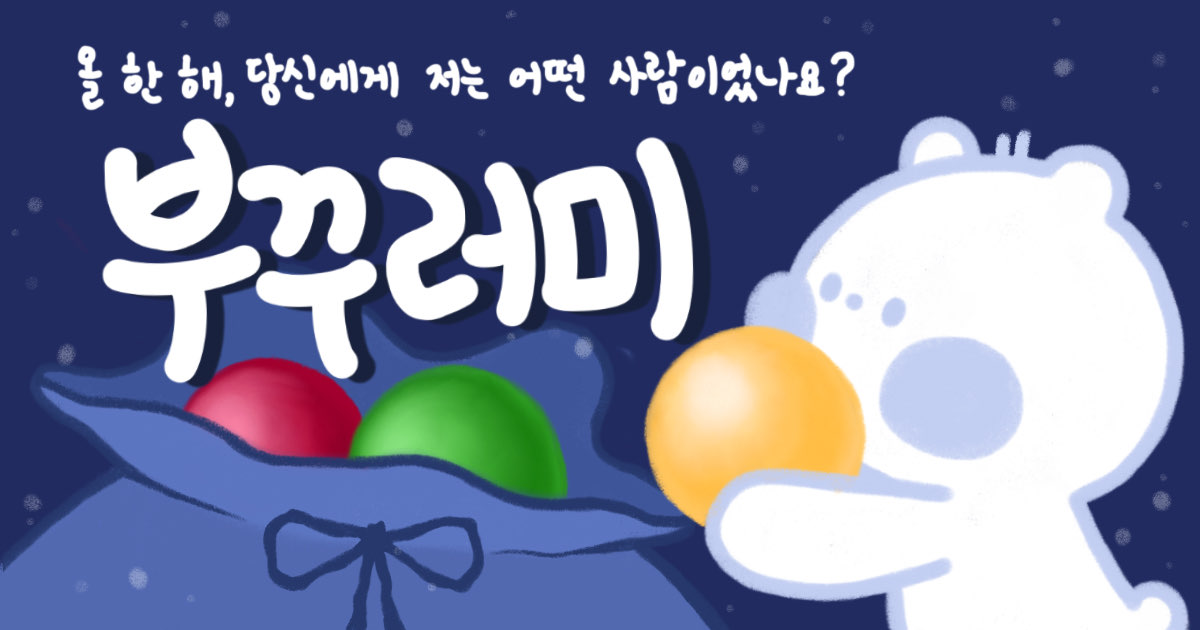
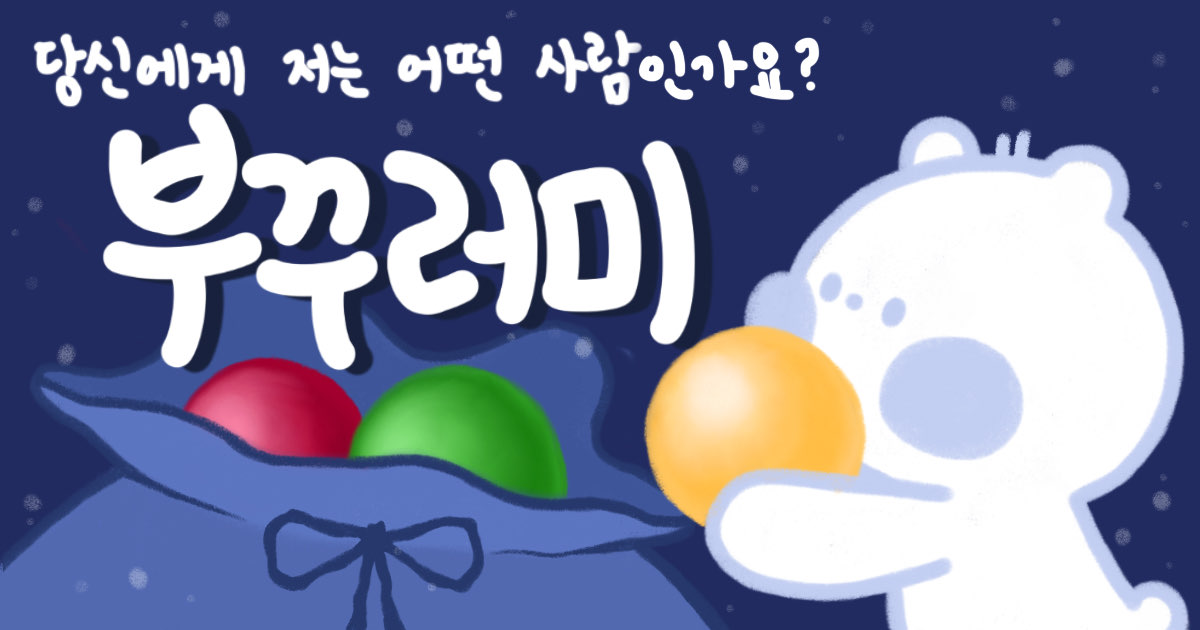
[QA-BGRM-79] og image 및 보따리 설정 기본 값 변경 (#82)

diff --git a/src/pages/answer-create/index.tsx b/src/pages/answer-create/index.tsx
@@ -59,13 +59,13 @@ export default function AnswerCreate() {
   return (
     <section className="flex flex-col h-full gap-6 justify-between">
       <div className="flex flex-col my-auto gap-4">
-        <div className="flex flex-col items-center ">
-          <p className="text-center text-white text-lg">
+        <div className="flex flex-col items-center gap-2">
+          <p className="text-center text-[#CFD2E4] text-lg">
             {questionInfo.nickname}님이 답변을 기다려요!
           </p>
-          <div className="flex items-center justify-center w-full h-10 text-center rounded-md text-2xl font-bold">
-            <span className="text-[#CFD2E4]">{questionInfo.content}</span>
-          </div>
+          <span className="text-[#FFFFFF] text-[22px] font-semibold text-center">
+            {questionInfo.content}
+          </span>
         </div>
         <div className="w-full flex flex-col items-center gap-4">
           {COLOR_CODE_LIST.map((group, groupIndex) => (
@@ -81,8 +81,7 @@ export default function AnswerCreate() {
               ))}
             </div>
           ))}
-
-          <p className="text-center text-white text-xl font-nanum-dahaengce">
+          <p className="text-center text-[#D9D9D9] text-xl font-nanum-dahaengce font-extralight">
             어떤 색상의 구슬로
             <br />
             답변을 할까요?

diff --git a/src/pages/main/components/WithAnswer.tsx b/src/pages/main/components/WithAnswer.tsx
@@ -42,16 +42,16 @@ export default function WithAnswer({
           <h3 className="font-bold mb-2 w-full text-left text-white">
             담긴 쪽지 미리보기
           </h3>
-          <p className="bg-[#F3F3F3] w-full px-4 py-3 rounded-md mb-10 h-24 overflow-y-auto font-nanum-dahaengce">
+          <p className="bg-[#F3F3F3] w-full px-4 py-3 rounded-md mb-4 h-24 overflow-y-auto font-nanum-dahaengce">
             {previewMessage}
           </p>
-          <span className="font-nanum-dahaengce mb-4 text-white text-xl">
-            누구의 쪽지일까요? 지금 열어보세요!
-          </span>
         </div>
       </div>
 
-      <footer className="w-full py-10">
+      <footer className="w-full pb-10">
+        <p className="font-nanum-dahaengce mb-2 text-center text-white text-xl">
+          누구의 쪽지일까요? 지금 열어보세요!
+        </p>
         <Button
           className="mb-2 w-full"
           children="열어보기"

diff --git a/src/pages/main/components/WithoutAnswer.tsx b/src/pages/main/components/WithoutAnswer.tsx
@@ -32,12 +32,12 @@ export default function WithoutAnswer({
           <span className="font-nanum-dahaengce text-white mb-10">
             기다려 볼까요?
           </span>
-          <span className="text-white font-nanum-dahaengce mb-2">
-            다시 한 번 공유해 볼까요?
-          </span>
         </div>
       </div>
-      <footer className="w-full py-10">
+      <footer className="w-full pb-10">
+        <p className="text-white font-nanum-dahaengce text-center mb-2">
+          다시 한 번 공유해 볼까요?
+        </p>
         <ReflectionButton userId={userId} />
         <ShareButton className="w-full mt-2">공유</ShareButton>
       </footer>

diff --git a/src/pages/question-create/index.tsx b/src/pages/question-create/index.tsx
@@ -41,7 +41,7 @@ export default function QuestionCreate() {
           <RandomInput value={question} onChange={handleChangeQuestion} />
         </div>
       </div>
-      <div className="py-10">
+      <div className="pb-10">
         <Button
           className="w-full"
           disabled={!question.trim().length}

diff --git a/src/pages/question-create-detail/index.tsx b/src/pages/question-create-detail/index.tsx
@@ -22,7 +22,7 @@ export default function QuestionCreateDetail() {
 
   const [settings, setSettings] = useState({
     isCountVisible: 1,
-    isAuthRequired: 1,
+    isAuthRequired: 0,
     isPublicVisible: 1,
   });
 
